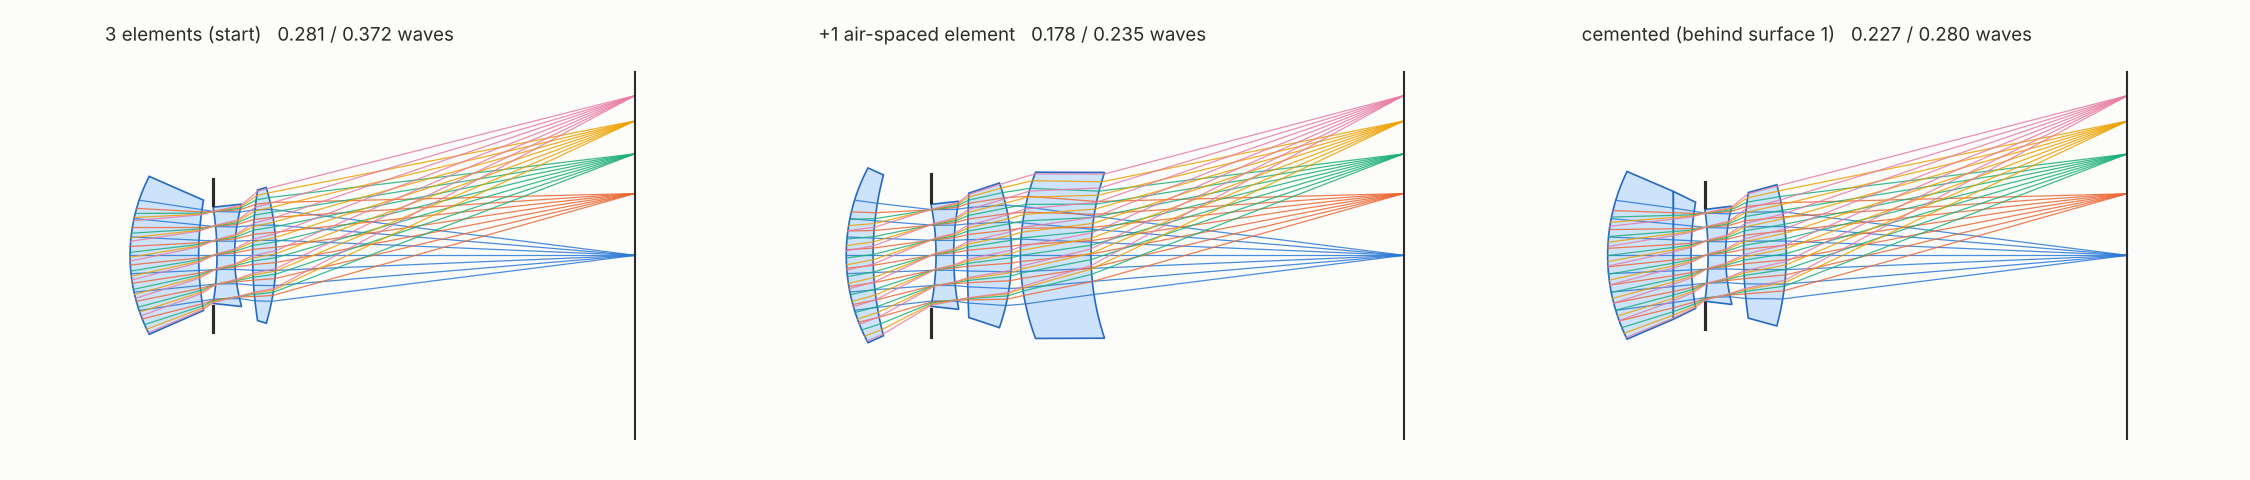
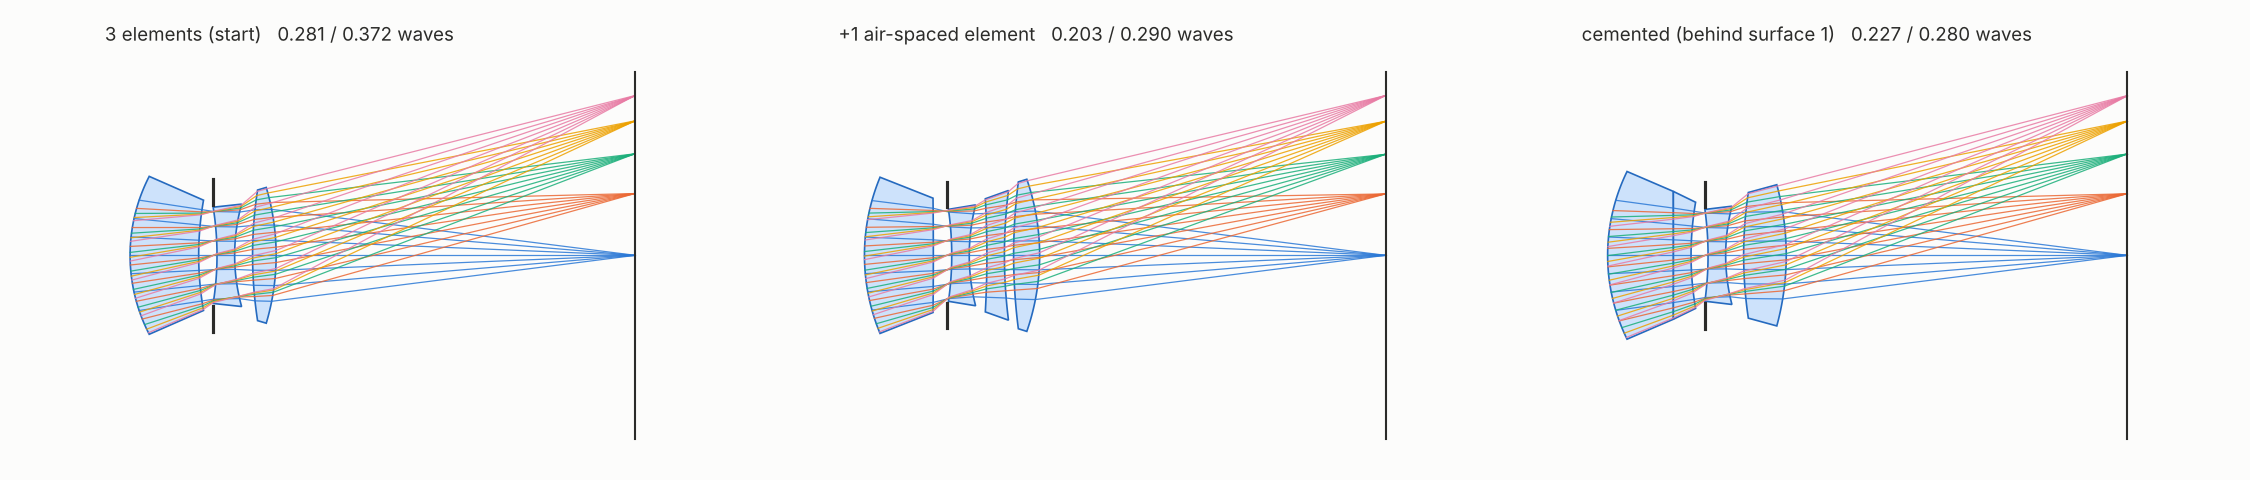
add_element tries both phase-stage variants per position (achromatic screen on the flat image; screen dispersing like its free slab glass with virtual Petzval)
Claude-Session: https://claude.ai/code/session_011PUinKqcRNFAgLzKuMkq9V

Changed region(s): [[0.3733, 0.1875, 0.6222, 0.7188], [0.3733, 0.0312, 0.56, 0.0938]]

diff --git a/novaoptics/engine/design.py b/novaoptics/engine/design.py
@@ -183,6 +183,7 @@ def morph_element(z, cfg, problem: EM.Problem):
 
 
 def _morph(problem, params, spec, steps=20, iters=30, mu_b=1e-5, jump=1.5, polish_iters=80,
+           vp=1.0,
            log=None):
     """Morph problem.morphing[0] into glass (adaptive homotopy steps, as in MATERIALIZE)."""
     from . import materials as M
@@ -205,9 +206,9 @@ def _morph(problem, params, spec, steps=20, iters=30, mu_b=1e-5, jump=1.5, polis
     def step(z, s):
         mu = mu_b * s / max(1.0 - s, 1e-3) ** 2 if s < 1 else 0.0
         z, _ = optimize_design(problem, z, spec, free, iters=iters, transform=morph_element,
-                               s=s, mu=mu, virtual_petzval=1.0)
+                               s=s, mu=mu, virtual_petzval=vp)
         p = morph_element(z, EM.make_cfg(s=s), problem)
-        return z, p, mean_wfe(problem, p, spec, vp=1.0)
+        return z, p, mean_wfe(problem, p, spec, vp=vp)
 
     ds0 = 1.0 / steps
     s_prev, ds, prev = 0.0, ds0, None
@@ -232,14 +233,15 @@ def _morph(problem, params, spec, steps=20, iters=30, mu_b=1e-5, jump=1.5, polis
 
 
 def insert_screen(problem: EM.Problem, params, i, r_norm, glass=(1.62, 50.0), n_phase=4,
-                  front_gap=4.0):
+                  front_gap=4.0, phase="glass"):
     """Insert a zero-power ideal phase screen on the rear face of a zero-thickness flat
     slab of model glass, in the middle of the air space after surface i (i = -1: in
     front of the first surface, `front_gap` ahead of it).  The system is unchanged;
     the new pair is marked as morphing (problem.morphing)."""
     front = Surface(material="model", label="new front")
-    # the screen disperses like the glass of its slab (as in the pipeline's COLOR stage)
-    rear = Surface(phase="glass", n_phase=n_phase, r_norm=r_norm, label="new rear")
+    # phase "glass": the screen disperses like its slab (as in the pipeline's COLOR
+    # stage); "ideal": achromatic
+    rear = Surface(phase=phase, n_phase=n_phase, r_norm=r_norm, label="new rear")
     p = dict(params, s=[dict(q) for q in params["s"]])
     if i >= 0:
         t = float(params["s"][i]["t"])
@@ -253,8 +255,12 @@ def insert_screen(problem: EM.Problem, params, i, r_norm, glass=(1.62, 50.0), n_
     return dataclasses.replace(prob, morphing=((i + 1, i + 2),)), p
 
 
+VARIANTS = (("ideal", 0.0), ("glass", 1.0))
+
+
 def add_element(problem: EM.Problem, params, spec: Spec, positions=None, glass=(1.62, 50.0),
-                n_phase=4, min_space=2.0, front_gap=4.0, snap=True, steps=20, log=None):
+                n_phase=4, min_space=2.0, front_gap=4.0, snap=True, steps=20, log=None,
+                variants=VARIANTS):
     """Add one air-spaced singlet; returns (problem, params, report).
 
     Every air space at least `min_space` thick, and the space in front of the first
@@ -263,6 +269,12 @@ def add_element(problem: EM.Problem, params, spec: Spec, positions=None, glass=(
     indices whose following space is used, -1 = in front) restricts the candidates.
     Each candidate is optimized in phase space, morphed into glass, polished and
     (snap=True) given catalog glasses; the best real merit wins.
+
+    Every position is tried with each phase-stage variant (screen kind, virtual-Petzval
+    weight): an achromatic screen judged on the flat image, and a screen dispersing
+    like its free slab glass judged with virtual Petzval (as the pipeline does).  Which
+    leads to the better glass system differed between positions and could not be told
+    in phase space (on the spherical triplet: 0.178 vs. 0.203 waves best of each).
     """
     S = problem.system.surfaces
     over = {(i, k) for c in problem.configs for i, k in c.overrides}
@@ -273,30 +285,33 @@ def add_element(problem: EM.Problem, params, spec: Spec, positions=None, glass=(
                             and float(params["s"][i]["t"]) >= min_space]
     sd = clear_semi_diameters(problem, params, spec)
 
-    def candidate(i):
+    def candidate(item):
+        i, (kind, vp) = item
         rn = float(max(sd[max(i, 0)], sd[min(i + 1, len(S) - 1)], 1.0))
-        prob, p = insert_screen(problem, params, i, rn, glass, n_phase, front_gap)
+        prob, p = insert_screen(problem, params, i, rn, glass, n_phase, front_gap, kind)
         f, r = i + 1, i + 2
         # phase space: the screen takes power and aspheric phase, the rest re-balances
         free = variables(prob)
-        free["s"][f] = {"nd": True, "vd": True}  # color correction in phase space
+        # a dispersing screen corrects color in phase space with its slab's glass
+        free["s"][f] = {"nd": True, "vd": True} if kind == "glass" else {}
         free["s"][r] = {"t": True, "pcoef": True}
-        p, _ = optimize_design(prob, p, spec, free, iters=80, s=0.0, virtual_petzval=1.0)
-        phase_wfe = mean_wfe(prob, p, spec, vp=1.0)
-        prob, p = _morph(prob, p, spec, steps=steps)
+        p, _ = optimize_design(prob, p, spec, free, iters=80, s=0.0, virtual_petzval=vp)
+        phase_wfe = mean_wfe(prob, p, spec, vp=vp)
+        prob, p = _morph(prob, p, spec, steps=steps, vp=vp)
         glass_wfe = mean_wfe(prob, p, spec)
         if snap:
             prob, p = snap_glasses(prob, p, spec)
         c = cost(prob, p, spec)
-        return {"after": i, "cost": c if np.isfinite(c) else np.inf, "problem": prob,
+        return {"after": i, "variant": kind, "cost": c if np.isfinite(c) else np.inf,
+                "problem": prob,
                 "params": p, "phase_wfe": phase_wfe, "glass_wfe": glass_wfe,
                 "wfe": mean_wfe(prob, p, spec)}
 
-    results = pmap(candidate, positions)
+    results = pmap(candidate, [(i, v) for i in positions for v in variants])
     for r in results:
         if log:
             where = "in front" if r["after"] < 0 else f"after surface {r['after']}"
-            log(f"   new element {where}: phase {r['phase_wfe']:.3f} -> "
+            log(f"   new element {where} ({r['variant']} screen): phase {r['phase_wfe']:.3f} -> "
                 f"glass {r['glass_wfe']:.3f} -> final {r['wfe']:.3f} waves")
     best = min(results, key=lambda r: r["cost"])
     return best["problem"], best["params"], results

diff --git a/examples/output/continue/results.md b/examples/output/continue/results.md
@@ -1,8 +1,8 @@
 | design | mean RMS WFE [waves] | max RMS WFE [waves] | time [s] |
 |---|---|---|---|
 | 3 elements (start) | 0.281 | 0.372 | 0 |
-| +1 air-spaced element | 0.178 | 0.235 | 397 |
-| cemented (behind surface 1) | 0.227 | 0.280 | 1581 |
+| +1 air-spaced element | 0.203 | 0.290 | 445 |
+| cemented (behind surface 1) | 0.227 | 0.280 | 351 |
 
 f = 50 mm, F/4, +/-20 deg, F/d/C; dense 21-field grid; preferred SCHOTT glasses.
 
@@ -24,15 +24,15 @@ surf      R [mm]   t [mm]  material    label
 
 ```
 surf      R [mm]   t [mm]  material    label
-0         21.162    3.038  N-LASF41    E0 front
-1         35.805    6.610  air         E0 rear
-2            inf    0.523  air         stop  (stop)
-3        -29.466    2.000  SF56A       E1 front
-4         33.161    1.560  air         E1 rear
-5        165.574    4.997  N-LASF31A   E2 front
-6        -25.016    1.000  air         E2 rear
-7         26.665    8.000  N-LAK33B    new front
-8         29.515   35.425  air         new rear
+0         23.259    7.860  N-LASF41    E0 front
+1       -617.368    1.545  air         E0 rear
+2            inf    0.557  air         stop  (stop)
+3        -36.829    2.000  SF56A       E1 front
+4         23.294    2.013  air         E1 rear
+5       -116.190    2.000  SF2         new front
+6         59.527    1.051  air         new rear
+7         65.615    2.969  N-LASF31A   E2 front
+8        -26.484   39.484  air         E2 rear
 9            inf    0.000  air         image
 ```
 
@@ -41,7 +41,7 @@ surf      R [mm]   t [mm]  material    label
 ```
 surf      R [mm]   t [mm]  material    label
 0         21.661    7.469  N-LASF41    E0 front
-1      -3118.481    2.000  F2G12       cemented
+1      -3118.484    2.000  F2G12       cemented
 2         35.417    1.602  air         E0 rear
 3            inf    0.328  air         stop  (stop)
 4        -38.137    2.000  SF56A       E1 front
